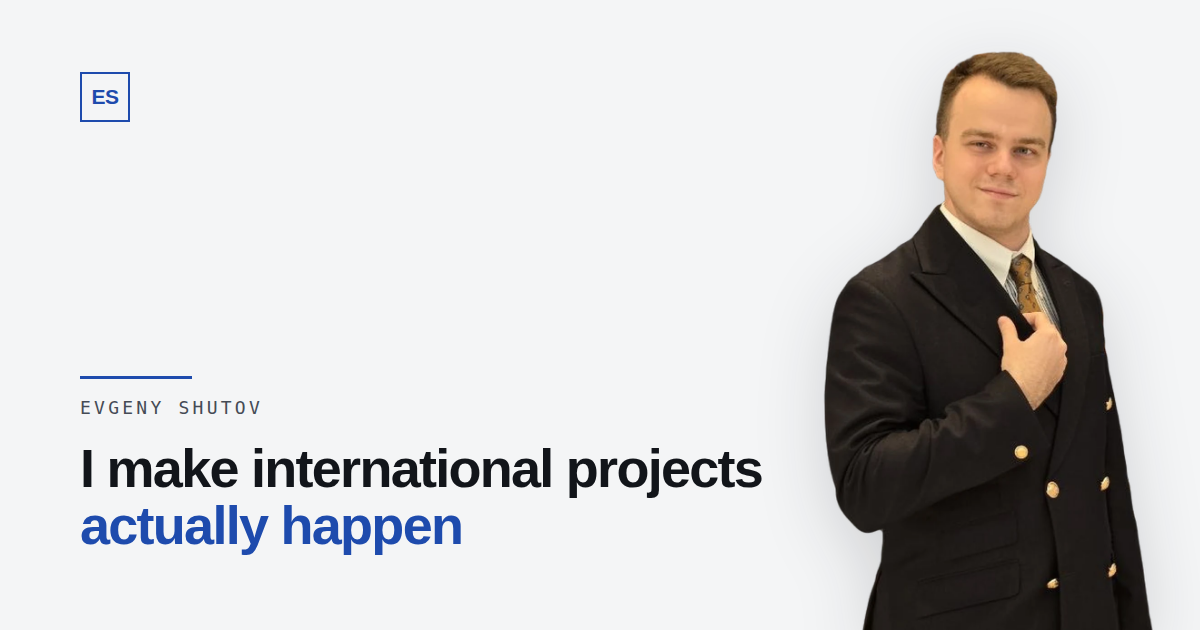
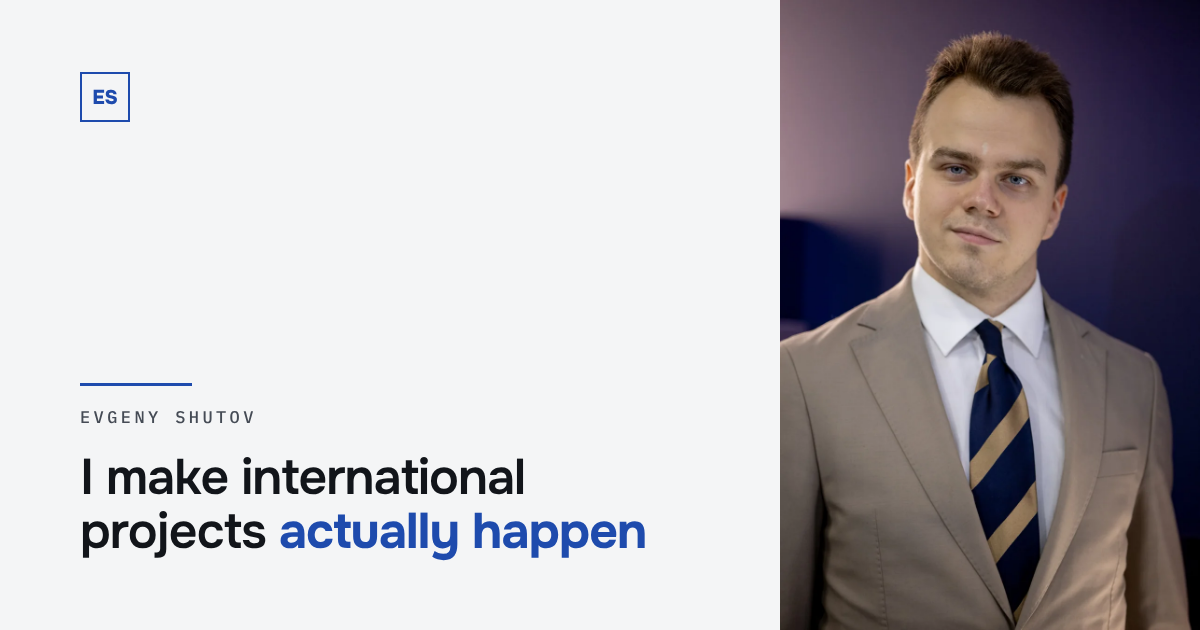
Новый портрет на обложке и снимки с работы
На обложке вместо вырезанной фигуры стоит снимок в полный кадр со своим
темным фоном. Новый портрет поясной, плечи в нем уходят за края, и
вырезка оставила бы по бокам прямые срезы. Прямоугольник стоит на нижней
кромке блока так же, как стояла фигура; фильтры, подобранные под черный
пиджак старого снимка, убраны.

В разделе «О себе» под текстом появилась пара снимков: панельная
дискуссия и рабочая встреча. Подписи на странице у них нет, есть только
описание для экранного диктора на трех языках. В проектах «Интервидение-
2025» и AGORA заработал уже заложенный в верстку блок фотографии, подписи
к ним были в содержании и раньше.

Карточки для соцсетей пересобраны с новым портретом. Сценарий сборки
лежит в tools/genog.mjs: текст карточки берется из заголовка обложки,
своих формулировок у нее нет.

Claude-Session: https://claude.ai/code/session_01WqaZRMW15F2pNUS9pVih7V

diff --git a/index.html b/index.html
@@ -4,7 +4,7 @@
 <meta charset="utf-8">
 <meta name="viewport" content="width=device-width, initial-scale=1">
 <!-- Метка сборки: по ней сразу видно, какая версия реально лежит на сервере -->
-<meta name="build" content="styles.c376f727.css map-base.268872a6.svg">
+<meta name="build" content="styles.7d8d53e1.css map-base.268872a6.svg">
 <title>Евгений Шутов. Международные проекты и делегации, португальский C1</title>
 <meta name="description" content="Специалист-международник по странам БРИКС и Латинской Америки. Португальский и английский C1. Сопровождение иностранных делегаций, организация международных мероприятий, договоры и отчетность по государственным контрактам.">
 <meta name="author" content="Евгений Шутов">
@@ -38,7 +38,7 @@
 <link rel="apple-touch-icon" href="apple-touch-icon.png">
 <link rel="preload" href="assets/fonts/onest-cyrillic-300800-normal.woff2" as="font" type="font/woff2" crossorigin>
 <link rel="stylesheet" href="assets/fonts.86552c30.css">
-<link rel="stylesheet" href="assets/styles.c376f727.css">
+<link rel="stylesheet" href="assets/styles.7d8d53e1.css">
 <script type="application/ld+json">{"@context":"https://schema.org","@type":"Person","name":"Евгений Шутов","description":"Специалист-международник по странам БРИКС и Латинской Америки. Португальский и английский C1. Сопровождение иностранных делегаций, организация международных мероприятий, договоры и отчетность по государственным контрактам.","url":"https://e-shutov.ru/","email":"mailto:mail@e-shutov.ru","knowsLanguage":["Португальский","Английский","Испанский"],"alumniOf":{"@type":"CollegeOrUniversity","name":"МГИМО МИД России"},"sameAs":["https://t.me/Taback_1028"]}</script>
 <!-- Появление блоков при прокрутке включается только здесь. Без этой
      строки (скрипт запрещен, ошибка загрузки) текст остается видимым.
@@ -84,7 +84,7 @@
         </div>
       </div>
       <div class="hero__media">
-        <img class="portrait" src="assets/img/portrait.webp" alt="Евгений Шутов" width="810" height="1311" fetchpriority="high" decoding="async">
+        <img class="portrait" src="assets/img/portrait.webp" alt="Евгений Шутов" width="900" height="1350" fetchpriority="high" decoding="async">
       </div>
     </div>
   </div>
@@ -96,6 +96,7 @@
       <div>
         <h2 class="h2 reveal">Как это выглядит на практике</h2>
         <div class="prose reveal" style="margin-top:clamp(1.5rem,3vw,2.5rem)"><p>Я специалист-международник по странам БРИКС и Латинской Америки. С бразильской стороной работаю на португальском, без переводчика.</p><p>Проект обычно выглядит так. Компания хочет зайти на внешний рынок, и кто-то должен найти там партнеров и довести дело до подписанного договора. Потом сделку надо исполнить: провести закупки, рассчитаться с подрядчиками и закрыть отчет, который принимает государственный заказчик. Обе части делаю я.</p></div>
+        <div class="shots"><figure class="shot shot--still reveal"><img src="assets/img/about-panel.webp" alt="Евгений Шутов на панельной дискуссии" width="1120" height="840" loading="lazy" decoding="async"></figure><figure class="shot shot--still reveal"><img src="assets/img/about-meeting.webp" alt="Евгений Шутов на рабочей встрече" width="1120" height="840" loading="lazy" decoding="async"></figure></div>
       </div>
     </div>
     <div class="stats"><div class="stat reveal">
@@ -201,7 +202,7 @@
             <div class="proj__t reveal"><h3 class="h3">Интервидение-2025</h3></div>
             <p class="proj__sub reveal">Международный музыкальный конкурс</p>
             <p class="proj__d reveal">Пришел на проект меньше чем за месяц до конкурса как специалист со знанием португальского языка. Конкурс проводился по указу Президента при поддержке МИД России, зал на 20 000 мест.</p>
-            
+            <figure class="shot reveal"><img src="assets/img/work-intervision.webp" alt="Делегации на «Интервидении-2025»" loading="lazy" decoding="async"><figcaption>Делегации на «Интервидении-2025»</figcaption></figure>
             <ul class="rules-list reveal"><li>Пять национальных делегаций общей численностью 45 человек: Бразилия, Мадагаскар, Кения, Эфиопия, ОАЭ.</li><li>Отвечал за договоры соорганизатора с правительствами стран, визовую поддержку, размещение, транспорт и программу пребывания на десять дней.</li><li>Отобрал и курировал пять атташе делегаций, по одному на страну.</li><li>С бразильской стороной работал на португальском: артист, продюсерская команда, телевещатель, министерство культуры.</li><li>Самостоятельно организовал трансляцию конкурса на бразильском телевидении. Подготовил и перевел пакет документов для вещателя: устав организации, кадровые документы, соглашения и меморандумы.</li></ul>
             <div class="metrics reveal"><div class="metric"><span class="metric__v num" data-count="45">45</span><span class="metric__l">членов делегаций</span></div><div class="metric"><span class="metric__v num" data-count="5">5</span><span class="metric__l">стран</span></div><div class="metric"><span class="metric__v num" data-count="3+ млн">3+ млн</span><span class="metric__l">зрителей трансляции</span></div><div class="metric"><span class="metric__v num" data-count="134">134</span><span class="metric__l">страны охвата</span></div></div>
           </div>
@@ -261,7 +262,7 @@
             <div class="proj__t reveal"><h3 class="h3">AGORA Global Business Club</h3></div>
             <p class="proj__sub reveal">Международный деловой форум</p>
             <p class="proj__d reveal">Руководил продажами форума 25–26 апреля 2026 года со стороны Consult Invest ITIC, партнера-исполнителя AGORA.</p>
-            
+            <figure class="shot reveal"><img src="assets/img/work-agora.webp" alt="Форум AGORA, отель Soluxe" loading="lazy" decoding="async"><figcaption>Форум AGORA, отель Soluxe</figcaption></figure>
             <ul class="rules-list reveal"><li>Настроил прием платежей для юрлица клуба: заключил договор эквайринга, подготовил публичную оферту и шаблоны счетов-оферт для корпоративных и частных плательщиков.</li><li>Подготовил договорную базу и вел документооборот с участниками.</li><li>Отвечал за продажи форума 25–26 апреля 2026 года: звонил по клиентским базам, вел продвижение в интернете и обрабатывал входящие заявки.</li><li>Принимал иностранных гостей форума: индийскую и южноафриканскую делегации.</li><li>Мероприятие освещали «Россия-1», НТВ и RuNews24.</li></ul>
             <div class="metrics reveal"><div class="metric"><span class="metric__v num" data-count="2">2</span><span class="metric__l">иностранные делегации</span></div><div class="metric"><span class="metric__v num" data-count="4">4</span><span class="metric__l">заинтересованных клиента</span></div><div class="metric"><span class="metric__v num" data-count="3">3</span><span class="metric__l">федеральных СМИ</span></div></div>
           </div>

diff --git a/pt/index.html b/pt/index.html
@@ -4,7 +4,7 @@
 <meta charset="utf-8">
 <meta name="viewport" content="width=device-width, initial-scale=1">
 <!-- Метка сборки: по ней сразу видно, какая версия реально лежит на сервере -->
-<meta name="build" content="styles.c376f727.css map-base.268872a6.svg">
+<meta name="build" content="styles.7d8d53e1.css map-base.268872a6.svg">
 <title>Evgeny Shutov. Projetos internacionais e delegações, português C1</title>
 <meta name="description" content="Especialista em relações internacionais com foco nos BRICS e na América Latina. Português e inglês em C1. Acompanhamento de delegações estrangeiras, organização de eventos internacionais, contratos e prestação de contas em contratos públicos.">
 <meta name="author" content="Evgeny Shutov">
@@ -38,7 +38,7 @@
 <link rel="apple-touch-icon" href="../apple-touch-icon.png">
 <link rel="preload" href="../assets/fonts/onest-latin-300800-normal.woff2" as="font" type="font/woff2" crossorigin>
 <link rel="stylesheet" href="../assets/fonts.86552c30.css">
-<link rel="stylesheet" href="../assets/styles.c376f727.css">
+<link rel="stylesheet" href="../assets/styles.7d8d53e1.css">
 <script type="application/ld+json">{"@context":"https://schema.org","@type":"Person","name":"Evgeny Shutov","description":"Especialista em relações internacionais com foco nos BRICS e na América Latina. Português e inglês em C1. Acompanhamento de delegações estrangeiras, organização de eventos internacionais, contratos e prestação de contas em contratos públicos.","url":"https://e-shutov.ru/pt/","email":"mailto:mail@e-shutov.ru","knowsLanguage":["Português","Inglês","Espanhol"],"alumniOf":{"@type":"CollegeOrUniversity","name":"MGIMO University"},"sameAs":["https://t.me/Taback_1028"]}</script>
 <!-- Появление блоков при прокрутке включается только здесь. Без этой
      строки (скрипт запрещен, ошибка загрузки) текст остается видимым.
@@ -84,7 +84,7 @@
         </div>
       </div>
       <div class="hero__media">
-        <img class="portrait" src="../assets/img/portrait.webp" alt="Evgeny Shutov" width="810" height="1311" fetchpriority="high" decoding="async">
+        <img class="portrait" src="../assets/img/portrait.webp" alt="Evgeny Shutov" width="900" height="1350" fetchpriority="high" decoding="async">
       </div>
     </div>
   </div>
@@ -96,6 +96,7 @@
       <div>
         <h2 class="h2 reveal">Como isso funciona na prática</h2>
         <div class="prose reveal" style="margin-top:clamp(1.5rem,3vw,2.5rem)"><p>Sou especialista em relações internacionais com foco nos países do BRICS e na América Latina. Com o lado brasileiro trabalho em português, sem intérprete.</p><p>Um projeto costuma ser assim. A empresa quer entrar em um mercado estrangeiro, e alguém precisa encontrar parceiros lá e levar a conversa até o contrato assinado. Depois o negócio tem de ser executado: fazer as compras, acertar com os fornecedores e fechar o relatório que o contratante público aceita. As duas partes ficam comigo.</p></div>
+        <div class="shots"><figure class="shot shot--still reveal"><img src="../assets/img/about-panel.webp" alt="Evgeny Shutov em um painel de debate" width="1120" height="840" loading="lazy" decoding="async"></figure><figure class="shot shot--still reveal"><img src="../assets/img/about-meeting.webp" alt="Evgeny Shutov em uma reunião de trabalho" width="1120" height="840" loading="lazy" decoding="async"></figure></div>
       </div>
     </div>
     <div class="stats"><div class="stat reveal">
@@ -201,7 +202,7 @@
             <div class="proj__t reveal"><h3 class="h3">Intervision 2025</h3></div>
             <p class="proj__sub reveal">Concurso musical internacional</p>
             <p class="proj__d reveal">Entrei no projeto a menos de um mês do concurso, como especialista com domínio de português. O concurso foi realizado por decreto presidencial, com apoio do Ministério das Relações Exteriores da Rússia, em uma arena para 20.000 pessoas.</p>
-            
+            <figure class="shot reveal"><img src="../assets/img/work-intervision.webp" alt="Delegações na Intervision 2025" loading="lazy" decoding="async"><figcaption>Delegações na Intervision 2025</figcaption></figure>
             <ul class="rules-list reveal"><li>Cinco delegações nacionais, 45 pessoas ao todo: Brasil, Madagascar, Quênia, Etiópia e Emirados Árabes Unidos.</li><li>Cuidei dos contratos de coorganização com os governos dos países, do apoio para vistos, hospedagem, transporte e da programação dos dez dias de estadia.</li><li>Selecionei e coordenei cinco adidos de delegação, um por país.</li><li>Com o lado brasileiro trabalhei em português: artista, equipe de produção, emissora e Ministério da Cultura.</li><li>Organizei sozinho a transmissão do concurso na televisão brasileira. Preparei e traduzi o pacote de documentos para a emissora: estatuto social, documentos de pessoal, acordos e memorandos.</li></ul>
             <div class="metrics reveal"><div class="metric"><span class="metric__v num" data-count="45">45</span><span class="metric__l">integrantes das delegações</span></div><div class="metric"><span class="metric__v num" data-count="5">5</span><span class="metric__l">países</span></div><div class="metric"><span class="metric__v num" data-count="3+ milhões">3+ milhões</span><span class="metric__l">de espectadores da transmissão</span></div><div class="metric"><span class="metric__v num" data-count="134">134</span><span class="metric__l">países de alcance</span></div></div>
           </div>
@@ -261,7 +262,7 @@
             <div class="proj__t reveal"><h3 class="h3">AGORA Global Business Club</h3></div>
             <p class="proj__sub reveal">Fórum internacional de negócios</p>
             <p class="proj__d reveal">Dirigi as vendas do fórum de 25 e 26 de abril de 2026 pelo lado da Consult Invest ITIC, parceira executora da AGORA.</p>
-            
+            <figure class="shot reveal"><img src="../assets/img/work-agora.webp" alt="Fórum AGORA, hotel Soluxe" loading="lazy" decoding="async"><figcaption>Fórum AGORA, hotel Soluxe</figcaption></figure>
             <ul class="rules-list reveal"><li>Montei a operação de pagamentos da pessoa jurídica do clube: fechei o contrato de adquirência, preparei o contrato de adesão e os modelos de fatura para pagadores corporativos e pessoas físicas.</li><li>Preparei a base contratual e conduzi a documentação com os participantes.</li><li>Respondi pelas vendas do fórum de 25 e 26 de abril de 2026: liguei para as bases de clientes, cuidei da divulgação on-line e tratei as solicitações recebidas.</li><li>Recebi os convidados estrangeiros do fórum: as delegações da Índia e da África do Sul.</li><li>O evento foi coberto pela Rossiya-1, pela NTV e pela RuNews24.</li></ul>
             <div class="metrics reveal"><div class="metric"><span class="metric__v num" data-count="2">2</span><span class="metric__l">delegações estrangeiras</span></div><div class="metric"><span class="metric__v num" data-count="4">4</span><span class="metric__l">clientes interessados</span></div><div class="metric"><span class="metric__v num" data-count="3">3</span><span class="metric__l">veículos de alcance nacional</span></div></div>
           </div>

diff --git a/en/index.html b/en/index.html
@@ -4,7 +4,7 @@
 <meta charset="utf-8">
 <meta name="viewport" content="width=device-width, initial-scale=1">
 <!-- Метка сборки: по ней сразу видно, какая версия реально лежит на сервере -->
-<meta name="build" content="styles.c376f727.css map-base.268872a6.svg">
+<meta name="build" content="styles.7d8d53e1.css map-base.268872a6.svg">
 <title>Evgeny Shutov. International projects and delegations, Portuguese at C1</title>
 <meta name="description" content="International relations specialist for BRICS and Latin America. Portuguese and English at C1. Foreign delegations, international event management, contracts and government-contract reporting.">
 <meta name="author" content="Evgeny Shutov">
@@ -38,7 +38,7 @@
 <link rel="apple-touch-icon" href="../apple-touch-icon.png">
 <link rel="preload" href="../assets/fonts/onest-latin-300800-normal.woff2" as="font" type="font/woff2" crossorigin>
 <link rel="stylesheet" href="../assets/fonts.86552c30.css">
-<link rel="stylesheet" href="../assets/styles.c376f727.css">
+<link rel="stylesheet" href="../assets/styles.7d8d53e1.css">
 <script type="application/ld+json">{"@context":"https://schema.org","@type":"Person","name":"Evgeny Shutov","description":"International relations specialist for BRICS and Latin America. Portuguese and English at C1. Foreign delegations, international event management, contracts and government-contract reporting.","url":"https://e-shutov.ru/en/","email":"mailto:mail@e-shutov.ru","knowsLanguage":["Portuguese","English","Spanish"],"alumniOf":{"@type":"CollegeOrUniversity","name":"MGIMO University"},"sameAs":["https://t.me/Taback_1028"]}</script>
 <!-- Появление блоков при прокрутке включается только здесь. Без этой
      строки (скрипт запрещен, ошибка загрузки) текст остается видимым.
@@ -84,7 +84,7 @@
         </div>
       </div>
       <div class="hero__media">
-        <img class="portrait" src="../assets/img/portrait.webp" alt="Evgeny Shutov" width="810" height="1311" fetchpriority="high" decoding="async">
+        <img class="portrait" src="../assets/img/portrait.webp" alt="Evgeny Shutov" width="900" height="1350" fetchpriority="high" decoding="async">
       </div>
     </div>
   </div>
@@ -96,6 +96,7 @@
       <div>
         <h2 class="h2 reveal">What this looks like in practice</h2>
         <div class="prose reveal" style="margin-top:clamp(1.5rem,3vw,2.5rem)"><p>I am an international relations specialist working with the BRICS countries and Latin America. With the Brazilian side I work in Portuguese, without an interpreter.</p><p>A project usually looks like this. A company wants to enter a foreign market, and someone has to find partners there and carry it through to a signed contract. Then the deal has to be delivered: run the procurement, settle with the contractors and close the report that the government client has to sign off. I do both halves.</p></div>
+        <div class="shots"><figure class="shot shot--still reveal"><img src="../assets/img/about-panel.webp" alt="Evgeny Shutov speaking on a panel" width="1120" height="840" loading="lazy" decoding="async"></figure><figure class="shot shot--still reveal"><img src="../assets/img/about-meeting.webp" alt="Evgeny Shutov at a working meeting" width="1120" height="840" loading="lazy" decoding="async"></figure></div>
       </div>
     </div>
     <div class="stats"><div class="stat reveal">
@@ -201,7 +202,7 @@
             <div class="proj__t reveal"><h3 class="h3">Intervision 2025</h3></div>
             <p class="proj__sub reveal">International music contest</p>
             <p class="proj__d reveal">I joined the project less than a month before the contest as a Portuguese-speaking specialist. The contest was held by presidential decree with the backing of the Russian Foreign Ministry, in a 20,000-seat arena.</p>
-            
+            <figure class="shot reveal"><img src="../assets/img/work-intervision.webp" alt="Delegations at Intervision 2025" loading="lazy" decoding="async"><figcaption>Delegations at Intervision 2025</figcaption></figure>
             <ul class="rules-list reveal"><li>Five national delegations totalling 45 people: Brazil, Madagascar, Kenya, Ethiopia and the UAE.</li><li>Handled the co-organiser agreements with national governments, visa support, accommodation, transport and the ten-day visit programme.</li><li>Selected and supervised five delegation attachés, one per country.</li><li>With the Brazilian side I worked in Portuguese: the artist, the production team, the broadcaster and the ministry of culture.</li><li>Set up the contest broadcast on Brazilian television on my own. Prepared and translated the paperwork the broadcaster needed: the organisation’s charter, HR documents, agreements and memoranda.</li></ul>
             <div class="metrics reveal"><div class="metric"><span class="metric__v num" data-count="45">45</span><span class="metric__l">delegation members</span></div><div class="metric"><span class="metric__v num" data-count="5">5</span><span class="metric__l">countries</span></div><div class="metric"><span class="metric__v num" data-count="3+ mln">3+ mln</span><span class="metric__l">broadcast viewers</span></div><div class="metric"><span class="metric__v num" data-count="134">134</span><span class="metric__l">countries reached</span></div></div>
           </div>
@@ -261,7 +262,7 @@
             <div class="proj__t reveal"><h3 class="h3">AGORA Global Business Club</h3></div>
             <p class="proj__sub reveal">International business forum</p>
             <p class="proj__d reveal">Led sales for the forum of 25-26 April 2026 on behalf of Consult Invest ITIC, AGORA’s delivery partner.</p>
-            
+            <figure class="shot reveal"><img src="../assets/img/work-agora.webp" alt="AGORA forum, Soluxe Hotel" loading="lazy" decoding="async"><figcaption>AGORA forum, Soluxe Hotel</figcaption></figure>
             <ul class="rules-list reveal"><li>Set up payment collection for the club’s legal entity: signed the card-acquiring agreement, drafted the standard terms and the invoice templates for corporate and private payers.</li><li>Prepared the contract templates and ran the paperwork with participants.</li><li>Owned sales for the 25-26 April 2026 forum: worked the client lists, ran the online channels and handled inbound enquiries.</li><li>Hosted the forum’s foreign guests: the Indian and South African delegations.</li><li>The event was covered by Rossiya-1, NTV and RuNews24.</li></ul>
             <div class="metrics reveal"><div class="metric"><span class="metric__v num" data-count="2">2</span><span class="metric__l">foreign delegations</span></div><div class="metric"><span class="metric__v num" data-count="4">4</span><span class="metric__l">interested clients</span></div><div class="metric"><span class="metric__v num" data-count="3">3</span><span class="metric__l">federal media outlets</span></div></div>
           </div>

diff --git a/assets/styles.7d8d53e1.css b/assets/styles.7d8d53e1.css
@@ -477,27 +477,26 @@ section[id] { scroll-margin-top: calc(var(--hdr) + 1.5rem); }
 }
 
 /* Портрет */
-/* Портрет — вырезанная фигура без рамки и подложки: она стоит в правой
-   колонке обложки и уходит за нижнюю кромку блока. Рамка вокруг снимка
-   делала из него карточку, а тут человек просто стоит на странице. */
+/* Портрет — снимок в полный кадр, со своим фоном. Раньше здесь стояла
+   вырезанная фигура в рост. Новый кадр поясной, плечи в нем уходят за
+   края, и вырезка оставила бы по бокам прямые срезы. Темный фон снимка
+   сам держит форму, поэтому ни рамки, ни тени: прямоугольник стоит на
+   нижней кромке блока так же, как стояла фигура.
+
+   Высота задана от экрана, ширина следует из пропорции 2:3. В узкой
+   колонке ширины не хватает — тогда кадр подрезается по бокам, а не
+   сплющивается; точка привязки держит в кадре лицо. */
 .hero__media { display: flex; justify-content: flex-end; align-items: flex-end; }
 .portrait {
   display: block;
   width: auto;
   max-width: 100%;
-  /* Рост задан от высоты экрана: обложка должна помещаться целиком,
-     а фигура при этом доставать до нижней кромки блока. */
   height: clamp(24rem, 64vh, 38rem);
+  aspect-ratio: 2 / 3;
+  object-fit: cover;
+  object-position: 50% 18%;
   margin-bottom: calc(-1 * var(--hero-pad-b));
-  filter: drop-shadow(0 24px 40px rgba(18, 21, 26, .13));
 }
-/* Снимок цветной в обеих темах. На темном фоне поднимаем тени
-   (contrast < 1): иначе черный пиджак сливается с темным фоном и
-   фигура теряет силуэт ниже плеч. */
-@media (prefers-color-scheme: dark) {
-  :root:not([data-theme='light']) .portrait { filter: contrast(.86) brightness(1.04) drop-shadow(0 24px 40px rgba(0, 0, 0, .5)); }
-}
-:root[data-theme='dark'] .portrait { filter: contrast(.86) brightness(1.04) drop-shadow(0 24px 40px rgba(0, 0, 0, .5)); }
 
 /* --- 7. Кнопки ------------------------------------------- */
 
@@ -907,7 +906,10 @@ section[id] { scroll-margin-top: calc(var(--hdr) + 1.5rem); }
      кромки: сверху она перекрывала заголовок и съедала первый экран. */
   .hero__grid { grid-template-columns: 1fr; align-items: start; }
   .hero__media { justify-content: flex-end; }
-  .portrait { height: clamp(17rem, 46vh, 24rem); margin-right: calc(-1 * var(--gutter) / 2); }
+  /* На телефоне снимок встает на всю ширину колонки. На планшете та же
+     ширина дала бы кадр выше экрана, поэтому она ограничена и снимок
+     стоит справа, там же, где стояла фигура. */
+  .portrait { width: min(100%, 24rem); height: auto; aspect-ratio: 4 / 5; }
   .grid2, .proj__grid, .current__row, .ftr__grid { grid-template-columns: minmax(0, 1fr); }
   .aside, .proj__meta { position: static; }
   .aside__k { padding-top: .7rem; }
@@ -963,9 +965,13 @@ section[id] { scroll-margin-top: calc(var(--hdr) + 1.5rem); }
 
 /* --- 19. Фотография проекта ------------------------------ */
 
-.shot { margin: 1.75rem 0 0; }
+/* Отступ снизу нужен из-за подписи: без него она прилипала к первой
+   строке перечня и читалась как его заголовок. */
+.shot { margin: 1.75rem 0; }
 .shot img {
+  display: block;
   width: 100%;
+  height: auto;
   aspect-ratio: 16 / 9;
   object-fit: cover;
   border: 1px solid var(--rule);
@@ -981,7 +987,20 @@ section[id] { scroll-margin-top: calc(var(--hdr) + 1.5rem); }
   color: var(--ink-3);
   margin-top: .7rem;
 }
-@media print { .shot { display: none; } }
+
+/* Пара снимков под текстом раздела: кадры одной пропорции стоят в ряд,
+   на узком экране — друг под другом. Подписи у них нет. */
+.shots {
+  display: grid;
+  grid-template-columns: repeat(2, minmax(0, 1fr));
+  gap: clamp(.75rem, 1.5vw, 1.25rem);
+  margin-top: clamp(2rem, 4vw, 3rem);
+}
+.shots .shot { margin: 0; }
+.shot--still img { aspect-ratio: 4 / 3; }
+@media (max-width: 620px) { .shots { grid-template-columns: minmax(0, 1fr); } }
+
+@media print { .shot, .shots { display: none; } }
 
 /* --- 20. Карта географии --------------------------------- */
 

diff --git a/src/styles.css b/src/styles.css
@@ -477,27 +477,26 @@ section[id] { scroll-margin-top: calc(var(--hdr) + 1.5rem); }
 }
 
 /* Портрет */
-/* Портрет — вырезанная фигура без рамки и подложки: она стоит в правой
-   колонке обложки и уходит за нижнюю кромку блока. Рамка вокруг снимка
-   делала из него карточку, а тут человек просто стоит на странице. */
+/* Портрет — снимок в полный кадр, со своим фоном. Раньше здесь стояла
+   вырезанная фигура в рост. Новый кадр поясной, плечи в нем уходят за
+   края, и вырезка оставила бы по бокам прямые срезы. Темный фон снимка
+   сам держит форму, поэтому ни рамки, ни тени: прямоугольник стоит на
+   нижней кромке блока так же, как стояла фигура.
+
+   Высота задана от экрана, ширина следует из пропорции 2:3. В узкой
+   колонке ширины не хватает — тогда кадр подрезается по бокам, а не
+   сплющивается; точка привязки держит в кадре лицо. */
 .hero__media { display: flex; justify-content: flex-end; align-items: flex-end; }
 .portrait {
   display: block;
   width: auto;
   max-width: 100%;
-  /* Рост задан от высоты экрана: обложка должна помещаться целиком,
-     а фигура при этом доставать до нижней кромки блока. */
   height: clamp(24rem, 64vh, 38rem);
+  aspect-ratio: 2 / 3;
+  object-fit: cover;
+  object-position: 50% 18%;
   margin-bottom: calc(-1 * var(--hero-pad-b));
-  filter: drop-shadow(0 24px 40px rgba(18, 21, 26, .13));
 }
-/* Снимок цветной в обеих темах. На темном фоне поднимаем тени
-   (contrast < 1): иначе черный пиджак сливается с темным фоном и
-   фигура теряет силуэт ниже плеч. */
-@media (prefers-color-scheme: dark) {
-  :root:not([data-theme='light']) .portrait { filter: contrast(.86) brightness(1.04) drop-shadow(0 24px 40px rgba(0, 0, 0, .5)); }
-}
-:root[data-theme='dark'] .portrait { filter: contrast(.86) brightness(1.04) drop-shadow(0 24px 40px rgba(0, 0, 0, .5)); }
 
 /* --- 7. Кнопки ------------------------------------------- */
 
@@ -907,7 +906,10 @@ section[id] { scroll-margin-top: calc(var(--hdr) + 1.5rem); }
      кромки: сверху она перекрывала заголовок и съедала первый экран. */
   .hero__grid { grid-template-columns: 1fr; align-items: start; }
   .hero__media { justify-content: flex-end; }
-  .portrait { height: clamp(17rem, 46vh, 24rem); margin-right: calc(-1 * var(--gutter) / 2); }
+  /* На телефоне снимок встает на всю ширину колонки. На планшете та же
+     ширина дала бы кадр выше экрана, поэтому она ограничена и снимок
+     стоит справа, там же, где стояла фигура. */
+  .portrait { width: min(100%, 24rem); height: auto; aspect-ratio: 4 / 5; }
   .grid2, .proj__grid, .current__row, .ftr__grid { grid-template-columns: minmax(0, 1fr); }
   .aside, .proj__meta { position: static; }
   .aside__k { padding-top: .7rem; }
@@ -963,9 +965,13 @@ section[id] { scroll-margin-top: calc(var(--hdr) + 1.5rem); }
 
 /* --- 19. Фотография проекта ------------------------------ */
 
-.shot { margin: 1.75rem 0 0; }
+/* Отступ снизу нужен из-за подписи: без него она прилипала к первой
+   строке перечня и читалась как его заголовок. */
+.shot { margin: 1.75rem 0; }
 .shot img {
+  display: block;
   width: 100%;
+  height: auto;
   aspect-ratio: 16 / 9;
   object-fit: cover;
   border: 1px solid var(--rule);
@@ -981,7 +987,20 @@ section[id] { scroll-margin-top: calc(var(--hdr) + 1.5rem); }
   color: var(--ink-3);
   margin-top: .7rem;
 }
-@media print { .shot { display: none; } }
+
+/* Пара снимков под текстом раздела: кадры одной пропорции стоят в ряд,
+   на узком экране — друг под другом. Подписи у них нет. */
+.shots {
+  display: grid;
+  grid-template-columns: repeat(2, minmax(0, 1fr));
+  gap: clamp(.75rem, 1.5vw, 1.25rem);
+  margin-top: clamp(2rem, 4vw, 3rem);
+}
+.shots .shot { margin: 0; }
+.shot--still img { aspect-ratio: 4 / 3; }
+@media (max-width: 620px) { .shots { grid-template-columns: minmax(0, 1fr); } }
+
+@media print { .shot, .shots { display: none; } }
 
 /* --- 20. Карта географии --------------------------------- */
 

diff --git a/404.html b/404.html
@@ -3,7 +3,7 @@
 <title>Страница не найдена — Евгений Шутов</title>
 <meta name="robots" content="noindex">
 <link rel="icon" href="/favicon.svg" type="image/svg+xml">
-<link rel="stylesheet" href="/assets/fonts.86552c30.css"><link rel="stylesheet" href="/assets/styles.c376f727.css">
+<link rel="stylesheet" href="/assets/fonts.86552c30.css"><link rel="stylesheet" href="/assets/styles.7d8d53e1.css">
 </head><body>
 <main id="main" class="band"><div class="shell">
 <p class="label" style="margin-bottom:1.5rem">404</p>

diff --git a/README.md b/README.md
@@ -63,16 +63,21 @@ assets/
 
 | Файл | Что появится |
 |---|---|
-| `assets/img/portrait.jpg` | Портрет на первом экране. Без него первый экран чисто типографический. Нужен вертикальный кадр 4:5, минимум 800×1000 |
+| `assets/img/portrait.webp` | Портрет на первом экране. Без него первый экран чисто типографический. Вертикальный кадр 2:3 со своим фоном, 900×1350 |
 | `assets/shutov-cv.pdf` | Кнопка «Резюме PDF» на первом экране |
-| `assets/img/work-intervision.jpg` | Фотография в блоке «Интервидение-2025» |
+| `assets/img/about-panel.webp`, `about-meeting.webp` | Пара снимков под текстом раздела «О себе», кадры 4:3 |
+| `assets/img/work-intervision.webp` | Фотография в блоке «Интервидение-2025» |
 | `assets/img/work-sco.jpg` | Фотография в блоке «Бизнес-инкубатор ШОС 2025» |
 | `assets/img/work-bridge.jpg` | Фотография в блоке «Russia Bridge Program» |
 | `assets/img/work-rakez.jpg` | Фотография в блоке «RAKEZ» |
-| `assets/img/work-agora.jpg` | Фотография в блоке «AGORA Global Business Club» |
+| `assets/img/work-agora.webp` | Фотография в блоке «AGORA Global Business Club» |
 
 Фотографии проектов — горизонтальные, 16:9, от 1600 px по ширине.
 На сайте они показываются обесцвеченными и наливаются цветом при наведении.
+
+Карточки для соцсетей (`assets/img/og-*.png`) собираются из того же портрета
+и заголовка обложки: `node tools/genog.mjs`. После замены портрета их нужно
+пересобрать, иначе в мессенджерах останется старый снимок.
 
 После добавления файлов снова выполните `node build.mjs`.
 
